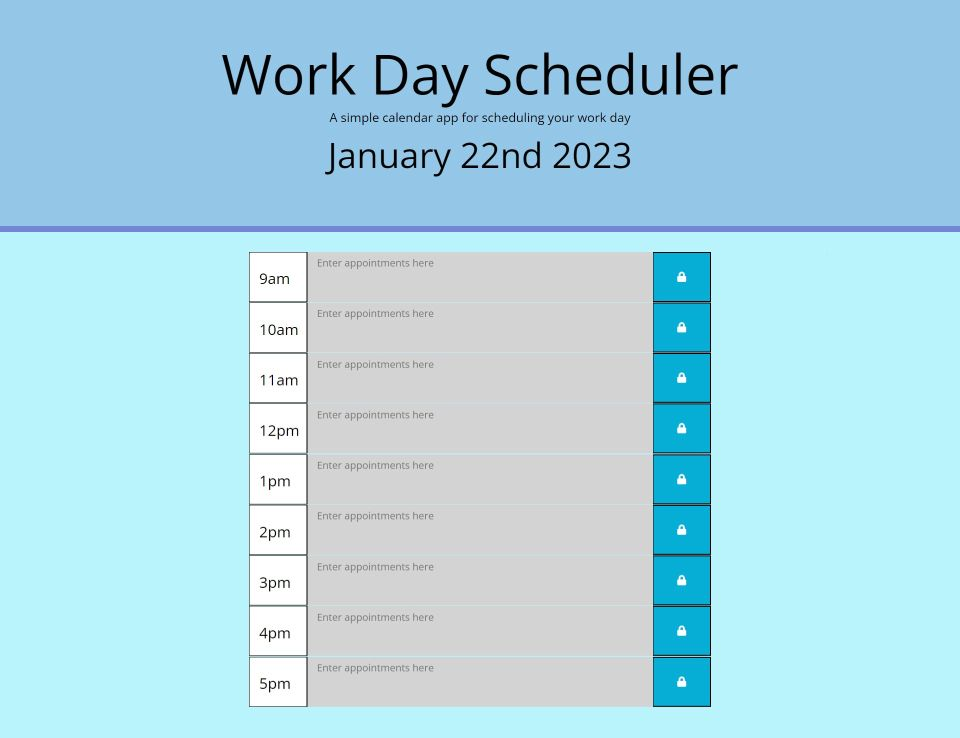
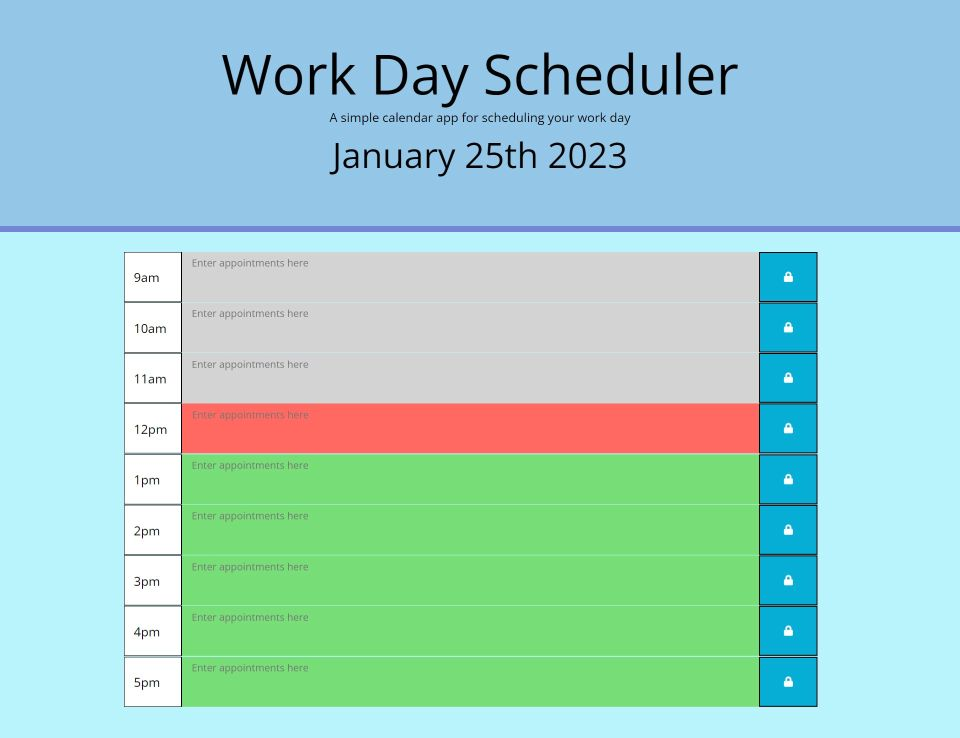
After much experimenting, I have reverted to the rows being 100% the width of the container. Makes more sense from a resizing point of view. Work not final - still ongoing.

diff --git a/index.html b/index.html
@@ -39,75 +39,59 @@
 
     <div class="container">
       <div id="hour-09" class="row">
-        <div class="col-lg-2"></div>
-        <div class="col-lg-1 hour"><span id="9">9am</span></div>
-        <textarea class="col-lg-6 time-block description" placeholder="Enter appointments here"></textarea>
-        <button type="button" class="col-lg-1 saveBtn"><i class="fas fa-lock"></i></button>
-        <div class="col-lg-2"></div>
+        <!-- <div class="col-lg-2 end"></div> -->
+        <div class="col-lg-1 col-sm-1 hour"><span id="9">9am</span></div>
+        <textarea class="col-lg-10 col-sm-10 time-block description" placeholder="Enter appointments here"></textarea>
+        <button type="button" class="col-lg-1 col-sm-1 saveBtn"><i class="fas fa-lock"></i></button>
+        <!-- <div class="col-lg-2 end"></div> -->
       </div>
 
       <div id="hour-10" class="row">
-        <div class="col-lg-2"></div>
         <div class="col-lg-1 hour"><span id="10">10am</span></div>
-        <textarea class="col-lg-6 time-block description" placeholder="Enter appointments here"></textarea>
+        <textarea class="col-lg-10 time-block description" placeholder="Enter appointments here"></textarea>
         <button type="button" class="col-lg-1 saveBtn"><i class="fas fa-lock"></i></button>
-        <div class="col-lg-2"></div>
       </div>
 
       <div id="hour-11" class="row">
-        <div class="col-lg-2"></div>
         <div class="col-lg-1 hour"><span id="11">11am</span></div>
-        <textarea class="col-lg-6 time-block description" placeholder="Enter appointments here"></textarea>
+        <textarea class="col-lg-10 time-block description" placeholder="Enter appointments here"></textarea>
         <button type="button" class="col-lg-1 saveBtn"><i class="fas fa-lock"></i></button>
-        <div class="col-lg-2"></div>
       </div>
 
       <div id="hour-12" class="row">
-        <div class="col-lg-2"></div>
         <div class="col-lg-1 hour"><span id="12">12pm</span></div>
-        <textarea class="col-lg-6 time-block description" placeholder="Enter appointments here"></textarea>
+        <textarea class="col-lg-10 time-block description" placeholder="Enter appointments here"></textarea>
         <button type="button" class="col-lg-1 saveBtn"><i class="fas fa-lock"></i></button>
-        <div class="col-lg-2"></div>
       </div>
 
       <div id="hour-13" class="row">
-        <div class="col-lg-2"></div>
         <div class="col-lg-1 hour"><span id="13">1pm</span></div>
-        <textarea class="col-lg-6 time-block description" placeholder="Enter appointments here"></textarea>
+        <textarea class="col-lg-10 time-block description" placeholder="Enter appointments here"></textarea>
         <button type="button" class="col-lg-1 saveBtn"><i class="fas fa-lock"></i></button>
-        <div class="col-lg-2"></div>
       </div>
 
       <div id="hour-14" class="row">
-        <div class="col-lg-2"></div>
         <div class="col-lg-1 hour"><span id="14">2pm</span></div>
-        <textarea class="col-lg-6 time-block description" placeholder="Enter appointments here"></textarea>
+        <textarea class="col-lg-10 time-block description" placeholder="Enter appointments here"></textarea>
         <button type="button" class="col-lg-1 saveBtn"><i class="fas fa-lock"></i></button>
-        <div class="col-lg-2"></div>
       </div>
 
       <div id="hour-15" class="row">
-        <div class="col-lg-2"></div>
         <div class="col-lg-1 hour"><span id="15">3pm</span></div>
-        <textarea class="col-lg-6 time-block description" placeholder="Enter appointments here"></textarea>
+        <textarea class="col-lg-10 time-block description" placeholder="Enter appointments here"></textarea>
         <button type="button" class="col-lg-1 saveBtn"><i class="fas fa-lock"></i></button>
-        <div class="col-lg-2"></div>
       </div>
 
       <div id="hour-16" class="row">
-        <div class="col-lg-2"></div>
         <div class="col-lg-1 hour n"><span id="16">4pm</span></div>
-        <textarea class="col-lg-6 time-block description" placeholder="Enter appointments here"></textarea>
+        <textarea class="col-lg-10 time-block description" placeholder="Enter appointments here"></textarea>
         <button type="button" class="col-lg-1 saveBtn"><i class="fas fa-lock"></i></button>
-        <div class="col-lg-2"></div>
       </div>
 
       <div id="hour-17" class="row">
-        <div class="col-lg-2"></div>
         <div class="col-lg-1 hour"><span id="17">5pm</span></div>
-        <textarea class="col-lg-6 time-block description" placeholder="Enter appointments here"></textarea>
+        <textarea class="col-lg-10 time-block description" placeholder="Enter appointments here"></textarea>
         <button type="button" class="col-lg-1 saveBtn"><i class="fas fa-lock"></i></button>
-        <div class="col-lg-2"></div>
       </div>
     </div>
 

diff --git a/assets/css/style.css b/assets/css/style.css
@@ -40,11 +40,12 @@ textarea {
   white-space: pre-wrap;
   height: 80px;
   margin-bottom: 1px;
+  width: 100%;
 }
 
 .hour {
   background-color: #ffffff;
-  font-size: 1.5rem;
+  font-size: 20px;
   padding-top: 30px;
   color: #000000;
   border: 1px solid black;
@@ -74,9 +75,12 @@ textarea {
   border-left: 1px solid black;
   background-color: #06aed5;
   color: white;
+  width: 80px
 }
 
 .saveBtn i:hover {
   font-size: 20px;
   transition: all 0.3s ease-in-out;
 }
+
+
